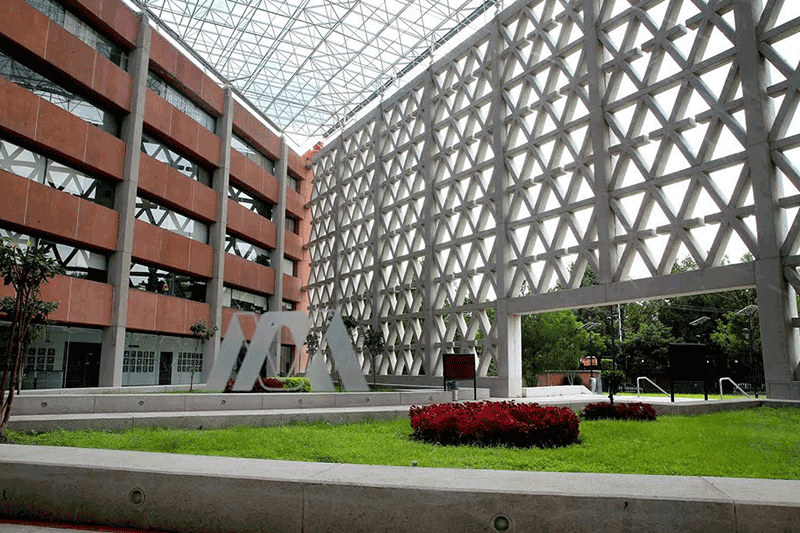
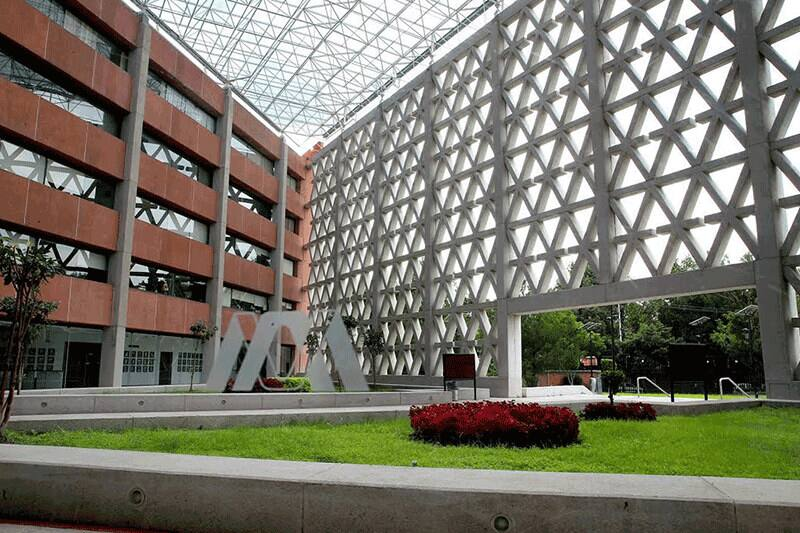
Casi un mega de logotipos sin optimizar, y el diseno saltaba al cargar
Auditoria del sitio. Tres cosas reales:

Quedaban siete logotipos sin tocar de la vez pasada, a 820 y 900 px de
ancho cuando ninguno se muestra arriba de 252. Entre los siete pesaban
979 KB; ahora 111 KB, al doble del tamano real y con paleta de 256
colores, que en estos no se distingue. El catalogo pasa de 399 KB a 68.

Veinticinco imagenes no declaraban su tamano, asi que el navegador no
sabia cuanto hueco reservarles y el texto brincaba cuando terminaban de
cargar. Es de lo mas molesto en un telefono lento: uno va leyendo y la
linea se mueve.

El telefono cargaba una portada de 2000 px y un comunicado de 1600 para
pantallas de 390. Ahora hay versiones chicas y el navegador escoge. La
portada en telefono pasa de 505 KB a 333.

Se agrega una prueba de peso para que esto no vuelva a pasar sin que
nadie se entere, y se quita hero-dia.jpg, que eran 619 KB guardados por
si se queria volver a la foto diurna. Esta en el historial de git.

168 pruebas pasan.

Claude-Session: https://claude.ai/code/session_01RsaDox1RXWyjX2coUwYAsZ

diff --git a/index.html b/index.html
@@ -97,7 +97,9 @@ h3{font-size:1.05rem;margin:0}
 .stripes span:nth-child(3){background:var(--azul)}
 .stripes span:nth-child(4){background:var(--azul-hondo)}
 .stripes span:nth-child(5){background:var(--ambar)}
-.hero{position:relative;isolation:isolate;color:#fff;background:#060d16;border-bottom:0}
+.hero{position:relative;isolation:isolate;color:#fff;background:#060d16;border-bottom:0;
+  --foto:url("assets/hero.jpg")}
+@media (max-width:760px){.hero{--foto:url("assets/hero-chico.jpg")}}
 .hero::after{content:"";position:absolute;left:0;right:0;bottom:0;height:4px;
   background:linear-gradient(90deg,var(--izt),#13948f 42%,var(--azul) 76%,var(--ambar))}
 /* La foto ya es nocturna y azul: el velo pesa menos y deja ver el edificio. */
@@ -107,7 +109,7 @@ h3{font-size:1.05rem;margin:0}
     radial-gradient(86% 72% at 100% 2%, rgba(22,104,184,.46) 0%, rgba(22,104,184,0) 62%),
     linear-gradient(90deg, rgba(4,10,20,.86) 0%, rgba(4,10,20,.44) 58%, rgba(4,10,20,.10) 100%),
     linear-gradient(0deg, rgba(4,10,20,.84) 0%, rgba(4,10,20,.06) 58%),
-    url("assets/hero.jpg") center 46%/cover no-repeat;}
+    var(--foto) center 46%/cover no-repeat;}
 .hero-inner{padding:40px 20px 52px}
 /* panel de vidrio esmerilado sobre la foto */
 .hero-card{max-width:720px;padding:28px 32px 30px;border-radius:22px;
@@ -560,8 +562,8 @@ html.js-reveal .rv.vista{opacity:1;transform:none;
 <header class="hero" id="top">
   <div class="hero-inner wrap">
     <div class="brand">
-      <img class="lg-mov" src="assets/logo.png" alt="Movimiento Estudiantil UAM-I">
-      <img class="lg-cgo" src="assets/logo-cgo.png" alt="Comisión de Gestión y Operación, Movimiento Estudiantil UAM-I">
+      <img class="lg-mov" src="assets/logo.png" alt="Movimiento Estudiantil UAM-I" width="600" height="252">
+      <img class="lg-cgo" src="assets/logo-cgo.png" alt="Comisión de Gestión y Operación, Movimiento Estudiantil UAM-I" width="540" height="277">
     </div>
     <div class="hero-card">
       <p class="kicker">Unidad Iztapalapa<span id="revHero"></span></p>
@@ -587,7 +589,13 @@ html.js-reveal .rv.vista{opacity:1;transform:none;
   <div class="wrap">
     <article class="danuncio">
       <a class="dimg" href="/assets/comunicado-destacado.jpg">
-        <img src="/assets/comunicado-destacado.jpg" width="1600" height="900"
+        <!-- En teléfono la de 1600 px es cuatro veces más grande de lo que se
+             ve. El navegador escoge según la pantalla. -->
+        <img src="/assets/comunicado-destacado.jpg"
+             srcset="/assets/comunicado-destacado-chico.jpg 900w,
+                     /assets/comunicado-destacado.jpg 1600w"
+             sizes="(max-width: 760px) 100vw, min(1100px, 92vw)"
+             width="1600" height="900" loading="lazy" decoding="async"
              alt="Comunicado del Movimiento Estudiantil UAM-I: informa a la comunidad
                   universitaria sobre la primera mesa de dialogo con las autoridades.
                   Lunes 23 de noviembre, Sala Quetzalcalli puerta 3, 10:00 horas con
@@ -930,7 +938,7 @@ html.js-reveal .rv.vista{opacity:1;transform:none;
         <ol class="tl" id="tl"></ol>
       </div>
       <figure class="tlfoto">
-        <img src="assets/izt-plaza.jpg" alt="Plaza central de la UAM Iztapalapa" loading="lazy">
+        <img src="assets/izt-plaza.jpg" alt="Plaza central de la UAM Iztapalapa" loading="lazy" width="800" height="533">
       </figure>
     </div>
   </section>
@@ -981,8 +989,8 @@ html.js-reveal .rv.vista{opacity:1;transform:none;
 
     <div class="fmid">
       <div class="flogos">
-        <img class="lg-mov" src="assets/logo.png" alt="Movimiento Estudiantil UAM-I">
-        <img class="lg-cgo" src="assets/logo-cgo.png" alt="Comisión de Gestión y Operación, Movimiento Estudiantil UAM-I">
+        <img class="lg-mov" src="assets/logo.png" alt="Movimiento Estudiantil UAM-I" width="600" height="252">
+        <img class="lg-cgo" src="assets/logo-cgo.png" alt="Comisión de Gestión y Operación, Movimiento Estudiantil UAM-I" width="540" height="277">
       </div>
       <p class="fdesc">Seguimiento del paro en la Universidad Autónoma Metropolitana, elaborado desde la Unidad Iztapalapa por y para la comunidad estudiantil. Reúne información de carácter público y la remite a su fuente.</p>
       <div class="fsocial">

diff --git a/inventariado/index.html b/inventariado/index.html
@@ -239,9 +239,9 @@ footer a{color:var(--accent)}
 
 <header class="top">
   <div class="wrap">
-    <img class="lg-com" src="../assets/logo-cgo.png" alt="Comisión de Gestión y Operación, Movimiento Estudiantil UAM-I">
+    <img class="lg-com" src="../assets/logo-cgo.png" alt="Comisión de Gestión y Operación, Movimiento Estudiantil UAM-I" width="540" height="277">
     <span class="sep" aria-hidden="true"></span>
-    <img class="lg-sub" src="../assets/logo-sub-texto-blanco.png" alt="Subcomisión de Inventariado y Auditoría Interna">
+    <img class="lg-sub" src="../assets/logo-sub-texto-blanco.png" alt="Subcomisión de Inventariado y Auditoría Interna" width="480" height="222">
     <span class="enlaces">
       <a class="vuelta" href="../catalogo/">Catálogo público</a>
       <a class="vuelta" href="https://meuami.org/">← meuami.org</a>
@@ -1278,11 +1278,11 @@ function pintarResumen(){
 function pintarEtiquetas(){
   const cont = document.getElementById("hojas");
   const sello = '<div class="esello">'+
-      '<img class="mov" src="../assets/logo.png" alt="">'+
+      '<img class="mov" src="../assets/logo.png" alt="" width="600" height="252">'+
       '<span class="d"></span>'+
-      '<img src="../assets/logo-cgo-oscuro.png" alt="">'+
+      '<img src="../assets/logo-cgo-oscuro.png" alt="" width="420" height="210">'+
       '<span class="d"></span>'+
-      '<img src="../assets/logo-sub-texto.png" alt="">'+
+      '<img src="../assets/logo-sub-texto.png" alt="" width="480" height="222">'+
     '</div><div class="ecint"><i></i></div>';
   cont.innerHTML = datos.registros.map(r =>
     '<div class="etiqueta'+(sel.has(r.folio)?'':' fuera')+'" data-f="'+esc(r.folio)+'">'+

diff --git a/documentos/generador/index.html b/documentos/generador/index.html
@@ -162,7 +162,7 @@ table.bienes th{background:#f0f0f0;font-size:8.8pt;text-transform:uppercase;lett
 
 <header class="top">
   <div class="in">
-    <img src="../../assets/logo.png" alt="Movimiento Estudiantil UAM-I">
+    <img src="../../assets/logo.png" alt="Movimiento Estudiantil UAM-I" width="600" height="252">
     <span class="sep" aria-hidden="true"></span>
     <div class="tit">Subcomisión de Inventariado y Auditoría Interna<b>Documentos oficiales</b></div>
     <a class="vuelta" href="../../panel/">← Panel</a>
@@ -302,9 +302,9 @@ const EMISORES = {
        deslinde:"Emitido por el Movimiento Estudiantil UAM-I."}
 };
 const IMAGENES = {
-  mov:'<img class="mov" src="../../assets/logo.png" alt="Movimiento Estudiantil UAM-I">',
-  cgo:'<img src="../../assets/logo-cgo-oscuro.png" alt="Comisión de Gestión y Operación">',
-  sub:'<img src="../../assets/logo-sub-texto.png" alt="Subcomisión de Inventariado y Auditoría Interna">'
+  mov:'<img class="mov" src="../../assets/logo.png" alt="Movimiento Estudiantil UAM-I" width="600" height="252">',
+  cgo:'<img src="../../assets/logo-cgo-oscuro.png" alt="Comisión de Gestión y Operación" width="420" height="210">',
+  sub:'<img src="../../assets/logo-sub-texto.png" alt="Subcomisión de Inventariado y Auditoría Interna" width="480" height="222">'
 };
 const emisorActual = () => EMISORES[val("emisor")] || EMISORES.sub;
 const NOMBRE  = {oficio:"Oficio", resguardo:"Vale de resguardo",

diff --git a/comunicados/plantilla.html b/comunicados/plantilla.html
@@ -157,9 +157,9 @@ a{color:var(--accent)}
 
 <article class="hoja">
   <header class="membrete">
-    <img class="mov" src="../assets/logo.png" alt="Movimiento Estudiantil UAM-I">
+    <img class="mov" src="../assets/logo.png" alt="Movimiento Estudiantil UAM-I" width="600" height="252">
     <span class="div" aria-hidden="true"></span>
-    <img class="org" src="../assets/logo-cgo-oscuro.png" alt="Comisión de Gestión y Operación">
+    <img class="org" src="../assets/logo-cgo-oscuro.png" alt="Comisión de Gestión y Operación" width="420" height="210">
   </header>
 
   <div class="folio">
@@ -169,7 +169,7 @@ a{color:var(--accent)}
 
   <div class="portada">
     <div class="marco">
-      <img src="../assets/portada-mesa.jpg" alt="Edificio de la Unidad Iztapalapa de la UAM">
+      <img src="../assets/portada-mesa.jpg" alt="Edificio de la Unidad Iztapalapa de la UAM" width="1800" height="1005">
       <span class="velo" aria-hidden="true"></span>
     </div>
     <div class="placa">

diff --git a/comunicados/imagen.html b/comunicados/imagen.html
@@ -114,14 +114,14 @@ body.vertical .sitio{right:58px;bottom:auto;top:62px;font-size:22px}
 <div class="envoltura">
 <div class="lienzo" id="lienzo">
 
-  <img class="foto" src="../assets/portada-mesa.jpg" alt="">
+  <img class="foto" src="../assets/portada-mesa.jpg" alt="" width="1800" height="1005">
   <div class="velo"></div>
   <div class="cinta"><i></i><i></i><i></i><i></i><i></i></div>
 
   <div class="marca">
-    <img class="mov" src="../assets/logo.png" alt="Movimiento Estudiantil UAM-I">
+    <img class="mov" src="../assets/logo.png" alt="Movimiento Estudiantil UAM-I" width="600" height="252">
     <span class="sep"></span>
-    <img class="cgo" src="../assets/logo-cgo-texto-blanco.png" alt="Comisión de Gestión y Operación">
+    <img class="cgo" src="../assets/logo-cgo-texto-blanco.png" alt="Comisión de Gestión y Operación" width="600" height="337">
   </div>
 
   <div class="sitio">meuami.org</div>

diff --git a/catalogo/index.html b/catalogo/index.html
@@ -154,9 +154,9 @@ html.js-reveal .rv.vista{opacity:1;transform:none;
 
 <header class="top">
   <div class="wrap">
-    <img class="lg-com" src="../assets/logo-cgo.png" alt="Comisión de Gestión y Operación, Movimiento Estudiantil UAM-I">
+    <img class="lg-com" src="../assets/logo-cgo.png" alt="Comisión de Gestión y Operación, Movimiento Estudiantil UAM-I" width="540" height="277">
     <span class="sep" aria-hidden="true"></span>
-    <img class="lg-sub" src="../assets/logo-sub-texto-blanco.png" alt="Subcomisión de Inventariado y Auditoría Interna">
+    <img class="lg-sub" src="../assets/logo-sub-texto-blanco.png" alt="Subcomisión de Inventariado y Auditoría Interna" width="480" height="222">
     <a class="vuelta" href="https://meuami.org/">← meuami.org</a>
   </div>
 </header>

diff --git a/documentos/index.html b/documentos/index.html
@@ -118,7 +118,7 @@ main{padding:34px 0 70px}
 <header class="cab">
   <div class="wrap">
     <a class="volver" href="../">← meuami.org</a>
-    <img src="../assets/logo.png" alt="Movimiento Estudiantil UAM-I">
+    <img src="../assets/logo.png" alt="Movimiento Estudiantil UAM-I" width="600" height="252">
     <h1>Documentos</h1>
     <p class="lede">Documentos firmados que ha recibido el Movimiento Estudiantil UAM-I
     en respuesta al pliego petitorio. Se publican completos y sin modificar, tal como

diff --git a/panel/index.html b/panel/index.html
@@ -113,7 +113,7 @@ footer{border-top:1px solid var(--rule);padding:24px 0 44px;color:var(--muted);f
 
 <header class="top">
   <div class="wrap">
-    <img src="../assets/logo.png" alt="Movimiento Estudiantil UAM-I">
+    <img src="../assets/logo.png" alt="Movimiento Estudiantil UAM-I" width="600" height="252">
     <span class="sep" aria-hidden="true"></span>
     <div class="tit">Movimiento Estudiantil UAM-I<b>Panel de coordinación</b></div>
   </div>

diff --git a/documentos/publicar/index.html b/documentos/publicar/index.html
@@ -88,7 +88,7 @@ textarea{resize:vertical;min-height:88px;line-height:1.5}
 
 <header class="top">
   <div class="in">
-    <img src="../../assets/logo.png" alt="Movimiento Estudiantil UAM-I">
+    <img src="../../assets/logo.png" alt="Movimiento Estudiantil UAM-I" width="600" height="252">
     <div>
       <p class="sub">Subcomisión de Inventariado y Auditoría Interna</p>
       <h1>Publicar un documento</h1>
